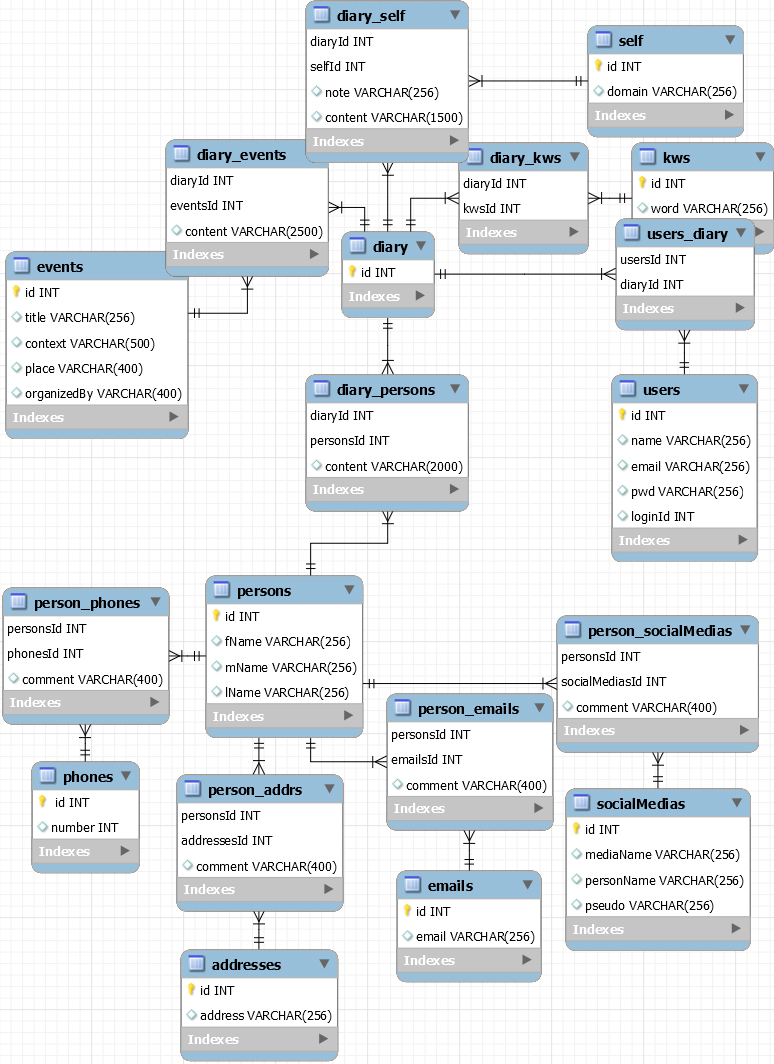
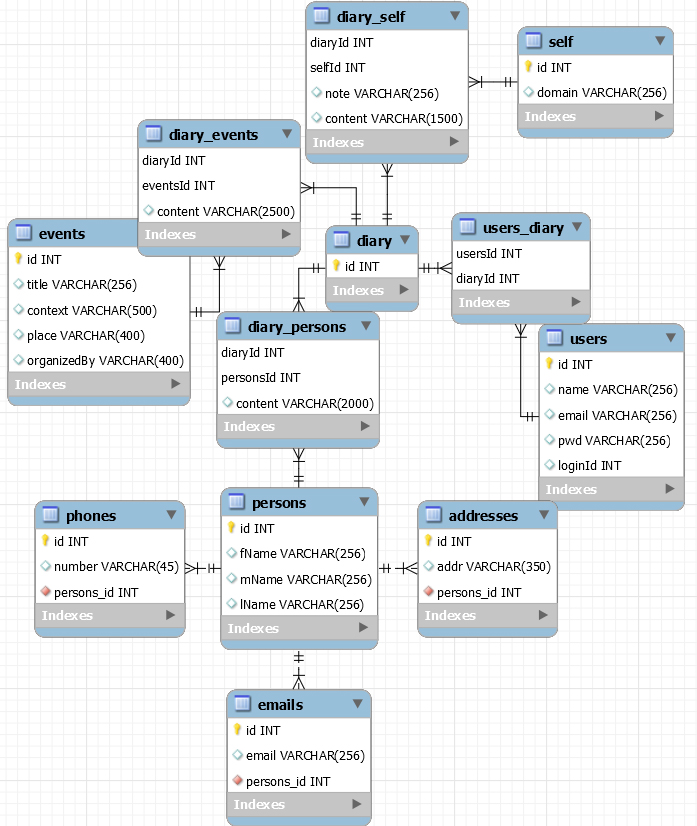
Schema + Models

diff --git a/server/models/index.js b/server/models/index.js
@@ -27,20 +27,13 @@ db.Sequelize = Sequelize;
 db.addresses = require('./addresses.js')(sequelize, Sequelize)
 db.diary = require('./diary.js')(sequelize, Sequelize)
 db.diary_events = require('./diary_events.js')(sequelize, Sequelize)
-db.diary_kws = require('./diary_kws.js')(sequelize, Sequelize)
 db.diary_persons = require('./diary_persons.js')(sequelize, Sequelize)
 db.diary_self = require('./diary_self.js')(sequelize, Sequelize)
 db.emails = require('./emails.js')(sequelize, Sequelize)
 db.events = require('./events.js')(sequelize, Sequelize)
-db.kws = require('./kws.js')(sequelize, Sequelize)
-db.person_addrs = require('./person_addrs.js')(sequelize, Sequelize)
-db.person_emails = require('./person_emails.js')(sequelize, Sequelize)
-db.person_phones = require('./person_phones.js')(sequelize, Sequelize)
-db.person_socialMedias = require('./person_socialMedias.js')(sequelize, Sequelize)
 db.persons = require('./persons.js')(sequelize, Sequelize)
 db.phones = require('./phones.js')(sequelize, Sequelize)
 db.self = require('./self.js')(sequelize, Sequelize)
-db.socialMedias = require('./socialMedias.js')(sequelize, Sequelize)
 db.users = require('./users.js')(sequelize, Sequelize)
 db.users_diary = require('./users_diary.js')(sequelize, Sequelize)
 //=========================================================================================================//
@@ -52,9 +45,6 @@ db.diary_events.belongsTo(db.diary)
 
 db.diary.hasMany(db.diary_self, { onDelete: 'CASCADE', hooks: true })
 db.diary_self.belongsTo(db.diary)
-
-db.diary.hasMany(db.diary_kws, { onDelete: 'CASCADE', hooks: true })
-db.diary_kws.belongsTo(db.diary)
 
 db.diary.hasMany(db.users_diary, { onDelete: 'CASCADE', hooks: true })
 db.users_diary.belongsTo(db.diary)
@@ -68,32 +58,20 @@ db.person_emails.belongsTo(db.emails)
 db.events.hasMany(db.diary_events, { onDelete: 'CASCADE', hooks: true })
 db.diary_events.belongsTo(db.events)
 
-db.kws.hasMany(db.diary_kws, { onDelete: 'CASCADE', hooks: true })
-db.diary_kws.belongsTo(db.kws)
-
 db.persons.hasMany(db.diary_persons, { onDelete: 'CASCADE', hooks: true })
 db.diary_persons.belongsTo(db.persons)
 
-db.persons.hasMany(db.person_socialMedias, { onDelete: 'CASCADE', hooks: true })
-db.person_socialMedias.belongsTo(db.persons)
+db.persons.hasMany(db.addresses, { onDelete: 'CASCADE', hooks: true })
+db.addresses.belongsTo(db.persons)
 
-db.persons.hasMany(db.person_emails, { onDelete: 'CASCADE', hooks: true })
-db.person_emails.belongsTo(db.persons)
+db.persons.hasMany(db.emails, { onDelete: 'CASCADE', hooks: true })
+db.emails.belongsTo(db.persons)
 
-db.persons.hasMany(db.person_addrs, { onDelete: 'CASCADE', hooks: true })
-db.person_addrs.belongsTo(db.persons)
-
-db.persons.hasMany(db.person_phones, { onDelete: 'CASCADE', hooks: true })
-db.person_phones.belongsTo(db.persons)
-
-db.phones.hasMany(db.person_phones, { onDelete: 'CASCADE', hooks: true })
-db.person_phones.belongsTo(db.phones)
+db.persons.hasMany(db.phones, { onDelete: 'CASCADE', hooks: true })
+db.phones.belongsTo(db.persons)
 
 db.self.hasMany(db.diary_self, { onDelete: 'CASCADE', hooks: true })
 db.diary_self.belongsTo(db.self)
-
-db.socialMedias.hasMany(db.person_socialMedias, { onDelete: 'CASCADE', hooks: true })
-db.person_socialMedias.belongsTo(db.socialMedias)
 
 db.users.hasMany(db.users_diary, { onDelete: 'CASCADE', hooks: true })
 db.users_diary.belongsTo(db.users)

diff --git a/server/routes/api-routes-read.js b/server/routes/api-routes-read.js
@@ -6,4 +6,37 @@ const requireAuth = passport.authenticate('jwt', { session: false });
 const db = require("../models");
 
 module.exports = function (app) {
+    app.get("/api/get/diary/all/:userLoginId", requireAuth, (req, res) => {
+        db.users.findAll({
+            where: { loginId: req.params.userLoginId },
+            include: [
+                {
+                    model: db.users_diary,
+                    include: [
+                        {
+                            model: db.diary,
+                            include: [
+                                {
+                                    model: db.diary_events,
+                                    include: [{ model: db.events, attributes: ['id', 'title'] }]
+                                },
+                                {
+                                    model: db.diary_self,
+                                    include: [{ model: db.self }]
+                                },
+                                {
+                                    model: db.diary_kws,
+                                    include: [{ model: db.kws }]
+                                },
+                                { model: db.persons }
+                            ]
+                        }
+                    ]
+                }
+            ]
+        })
+            .then(userRes => {
+                res.status(200).json(userRes)
+            }).catch(err => res.status(400).json(err))
+    })
 }
